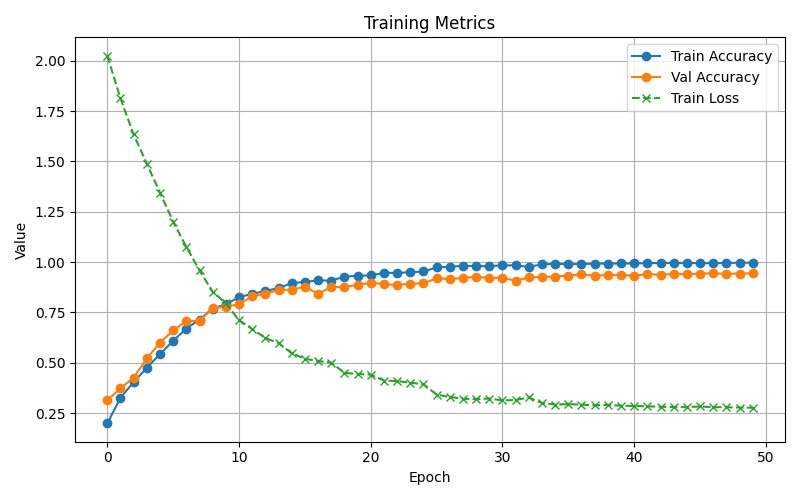
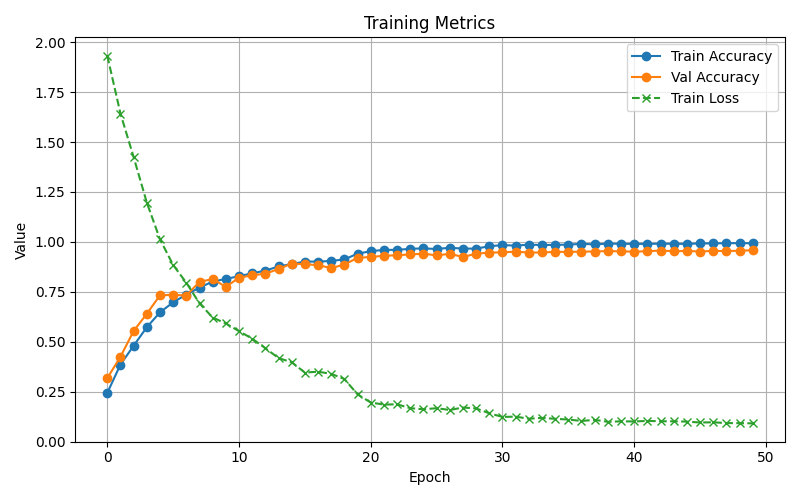
Custom model accuracy improved

diff --git a/custom_cnn_vit/custom_cnn_vit.py b/custom_cnn_vit/custom_cnn_vit.py
@@ -54,6 +54,7 @@ val_loader = DataLoader(val_dataset, batch_size=32, shuffle=False, num_workers=2
 test_loader = DataLoader(test_dataset, batch_size=32, shuffle=False, num_workers=2)
 num_classes = len(train_dataset.classes)
 
+
 # ✅ Custom CNN-ViT Hybrid Model
 class PatchEmbed(nn.Module):
     def __init__(self, in_channels=128, patch_size=16, embed_dim=256):
@@ -86,10 +87,10 @@ class CNNViTHybrid(nn.Module):
     def __init__(self, num_classes):
         super().__init__()
         self.cnn = nn.Sequential(
-            nn.Conv2d(3, 32, kernel_size=3, padding=1), nn.ReLU(), nn.MaxPool2d(2),
-            nn.Conv2d(32, 64, kernel_size=3, padding=1), nn.ReLU(), nn.MaxPool2d(2),
-            nn.Conv2d(64, 128, kernel_size=3, padding=1), nn.ReLU(), nn.MaxPool2d(2),
-            nn.Conv2d(128, 256, kernel_size=3, padding=1), nn.ReLU(), nn.MaxPool2d(2),
+            nn.Conv2d(3, 32, kernel_size=3, padding=1), nn.BatchNorm2d(32), nn.ReLU(), nn.MaxPool2d(2),
+            nn.Conv2d(32, 64, kernel_size=3, padding=1), nn.BatchNorm2d(64), nn.ReLU(), nn.MaxPool2d(2),
+            nn.Conv2d(64, 128, kernel_size=3, padding=1), nn.BatchNorm2d(128),nn.ReLU(), nn.MaxPool2d(2),
+            nn.Conv2d(128, 256, kernel_size=3, padding=1), nn.BatchNorm2d(256), nn.ReLU(), nn.MaxPool2d(2),
         )
 
         self.patch_embed = PatchEmbed(in_channels=256, patch_size=8, embed_dim=256)
@@ -105,7 +106,7 @@ class CNNViTHybrid(nn.Module):
 model = CNNViTHybrid(num_classes=num_classes).to(device)
 
 # ✅ Loss & Optimizer
-criterion = nn.CrossEntropyLoss(label_smoothing=0.05)
+criterion = nn.CrossEntropyLoss(label_smoothing=0.01)
 optimizer = optim.Adam(model.parameters(), lr=1e-4)
 scheduler = torch.optim.lr_scheduler.ReduceLROnPlateau(optimizer, mode='max', factor=0.5, patience=3, verbose=True)
 
@@ -162,13 +163,13 @@ for epoch in range(50):
     val_acc = evaluate(val_loader)
     scheduler.step(val_acc)
 
-
 # ✅ Save Model
 torch.save(model.state_dict(), "cnn_vit_hybrid.pt")
 print("Model saved.")
 
 # ✅ Final Test
 y_true, y_pred = evaluate(test_loader, name="Test", collect_preds=True)
+
 
 # ✅ Accuracy / Loss Plot
 plt.figure(figsize=(8, 5))
@@ -183,8 +184,8 @@ plt.grid(True)
 plt.tight_layout()
 plt.savefig("accuracy_loss_curve.png")
 
-# ✅ Confusion Matrix
 
+# ✅ Confusion Matrix
 cm = confusion_matrix(y_true, y_pred)
 plt.figure(figsize=(10, 10))
 sns.heatmap(cm, annot=True, fmt='d', cmap='OrRd',
@@ -199,10 +200,10 @@ plt.xticks(rotation=45)
 plt.tight_layout()
 plt.savefig("confusion_matrix.png")
 
+
 # ✅ Classification Report
 report = classification_report(y_true, y_pred, target_names=test_dataset.classes, digits=4)
 print("\nClassification Report:\n", report)
 with open("classification_report.txt", "w") as f:
     f.write(report)
-
 
